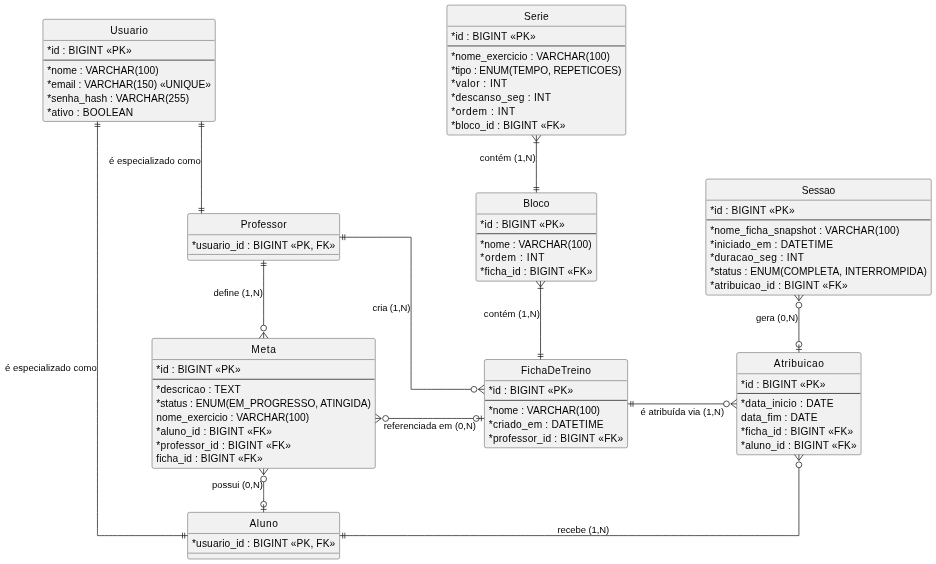
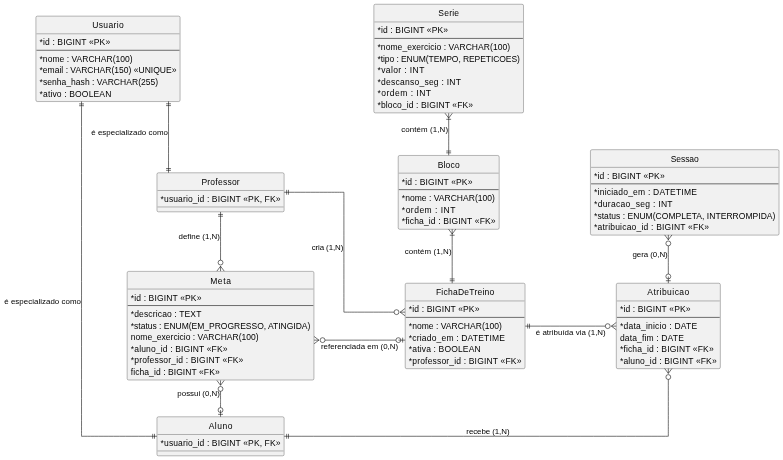
refactor: update EER diagram and documentation to clarify workout sheet deactivation process

diff --git a/iff/minimundo.md b/iff/minimundo.md
@@ -56,7 +56,7 @@ Cada bloco contém uma ou mais **Séries**, que são as unidades atômicas de ex
 - **Tempo de descanso** em segundos, exibido ao aluno entre as séries;
 - **Ordem** de exibição dentro do bloco.
 
-A exclusão de uma ficha não apaga o histórico de sessões dos alunos que a executaram. O nome da ficha é preservado como um *snapshot* dentro do registro de cada sessão.
+Fichas de treino não são removidas fisicamente do sistema. Quando uma ficha deixa de ser utilizada, ela é desativada. Dessa forma, o histórico de atribuições e sessões permanece íntegro e acessível.
 
 ---
 
